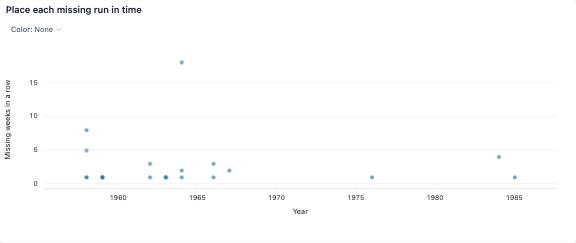
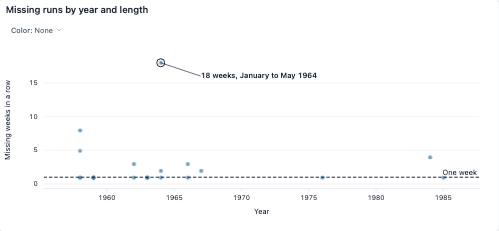
feat(daily): rewrite co2-missing-runs around the four outages

diff --git a/apps/demo/public/daily-viz/projects/co2/missing-runs.eda.md b/apps/demo/public/daily-viz/projects/co2/missing-runs.eda.md
@@ -1,65 +1,53 @@
-# Missing CO₂ weeks arrive in runs
+# The CO₂ record is missing 59 weeks, and 35 of them are four outages
 
-**How long are the consecutive missing stretches in the weekly calendar?** Each row is one consecutive missing run.
+**When the Mauna Loa record goes blank, how long does it stay blank?** Each row is one run of consecutive missing weeks in the weekly CO₂ series, 1958 to 2001: 22 runs in all. Most are a single week. A handful are the kind of outage that matters, and one of them, in early 1964, lasted four months.
 
 ```eda
 eda query=gaps
-date:date=gaps.date label="Date"
-end_date:date=gaps.end_date label="End date"
+date:date=gaps.date label="First missing week"
+end_date:date=gaps.end_date label="Last missing week"
 length:num=gaps.length label="Missing weeks in a row"
 year:num=gaps.year label="Year"
 before:num=gaps.before label="CO₂ before the gap (ppm)"
 after:num=gaps.after label="CO₂ after the gap (ppm)"
+change:num=change label="Change across the gap (ppm)"
 ```
 
-## 1. Place each missing run in time
+## One outage dwarfs the rest
 
-Each point represents an entire missing stretch, not one week. Height measures the number of adjacent null rows.
+Each point is one run, placed at its year; its height is the number of weeks lost. The longest run spans 18 weeks, from 25 January to 23 May 1964. Nineteen of the 22 runs fall before 1970; after 1970 the record loses a week in 1976, four weeks in 1984, and one in 1985, and then nothing.
 
 ```eda
-scatter @nb-co2-missing-runs-chart-1 x=year y=length title="Place each missing run in time" x.title="Year" y.title="Missing weeks in a row"
+scatter @nb-co2-missing-runs-chart-1 x=year y=length title="Missing runs by year and length" x.title="Year" y.title="Missing weeks in a row" {
+  callout "18 weeks, January to May 1964" pick=max offset=60,20
+  rule y=1 "One week"
+}
 ```
 
-## 2. Short gaps and long gaps are different problems
+## Most runs are one week; most missing weeks are not
 
-The histogram counts runs. Its denominator is not the number of missing weeks; one long interruption still contributes only one observation here.
+Count runs and the picture is benign: 63.6% of runs are a single missing week, and the median run is 1 week. Count weeks and it flips. The four runs of four weeks or more hold 59.3% of all missing weeks, so the typical blank in the record belongs to an outage, not a skipped reading.
 
 ```eda
-hist @nb-co2-missing-runs-chart-2 length bins=12 title="Short gaps and long gaps are different problems" x.title="Missing weeks in a row" y.title="Rows"
+hist @nb-co2-missing-runs-chart-2 length bins=18 title="Runs by length" x.title="Missing weeks in a row" y.title="Runs" {
+  rule x=4 "Four weeks or more"
+}
 ```
 
-**Finding.** The longest missing run spans 18 weekly slots.
+## The air did not move while nobody was watching
 
-## 3. Concentrations on either side of each gap
-
-These are the nearest observed values on either side. They help bound the contextual question, but drawing a point does not authorize filling the intervening values.
+Each point compares the last reading before a gap with the first after it. The points hug the diagonal: across the 22 gaps, the reading after averaged -0.04 ppm different from the reading before, and the largest jump in either direction was 2.2 ppm. Even the four-month gap closed with CO₂ 2.2 ppm higher, which is one spring's seasonal climb.
 
 ```eda
-scatter @nb-co2-missing-runs-chart-3 x=before y=after title="Concentrations on either side of each gap" x.title="CO₂ before the gap (ppm)" y.title="CO₂ after the gap (ppm)"
-```
-
-## 4. Share of missing runs below each duration
-
-A cumulative curve reveals whether a few long runs dominate the uncertainty in any gap-filling exercise. Every run receives equal weight.
-
-```eda
-ecdf @nb-co2-missing-runs-chart-4 length direction=below title="Share of missing runs below each duration" x.title="Missing weeks in a row"
-```
-
-**Finding.** All missing runs together account for 59 weekly slots.
-
-## 5. The rows behind the charts
-
-Sort a column or select rows to check any value above. Selections in a notebook stay with their own chart.
-
-```eda
-table @nb-co2-missing-runs-records date,end_date,length,before,after title="Records behind this comparison"
+scatter @nb-co2-missing-runs-chart-3 x=before y=after title="CO₂ before and after each gap" x.title="CO₂ before the gap (ppm)" y.title="CO₂ after the gap (ppm)" {
+  callout "The 1964 outage" on=gaps.id:co2-gaps-00014 offset=-40,-40
+}
 ```
 
 ## Takeaway
 
-Treat missingness as a population of intervals rather than a nuisance to erase. The run-length distribution and calendar positions identify where interpolation would make the strongest assumptions.
+Missing weeks are a 1960s problem and mostly a 1964 problem: 59 blanks in 2,284 weekly slots, with the four longest outages holding three in five of them. Readings on either side of every gap sit within a seasonal step of each other, so the holes hide no surprises, only the exact shape of a few springs.
 
 ## Limits
 
-A run means consecutive missing rows in this series. It is not proof that a station stopped operating. Before and after values do not reveal the unmeasured path between them.
+A run is consecutive blank rows in this series, not a documented instrument failure. The values before and after a gap bound it but do not fill it; a 1964 spring peak is simply not in the record.
